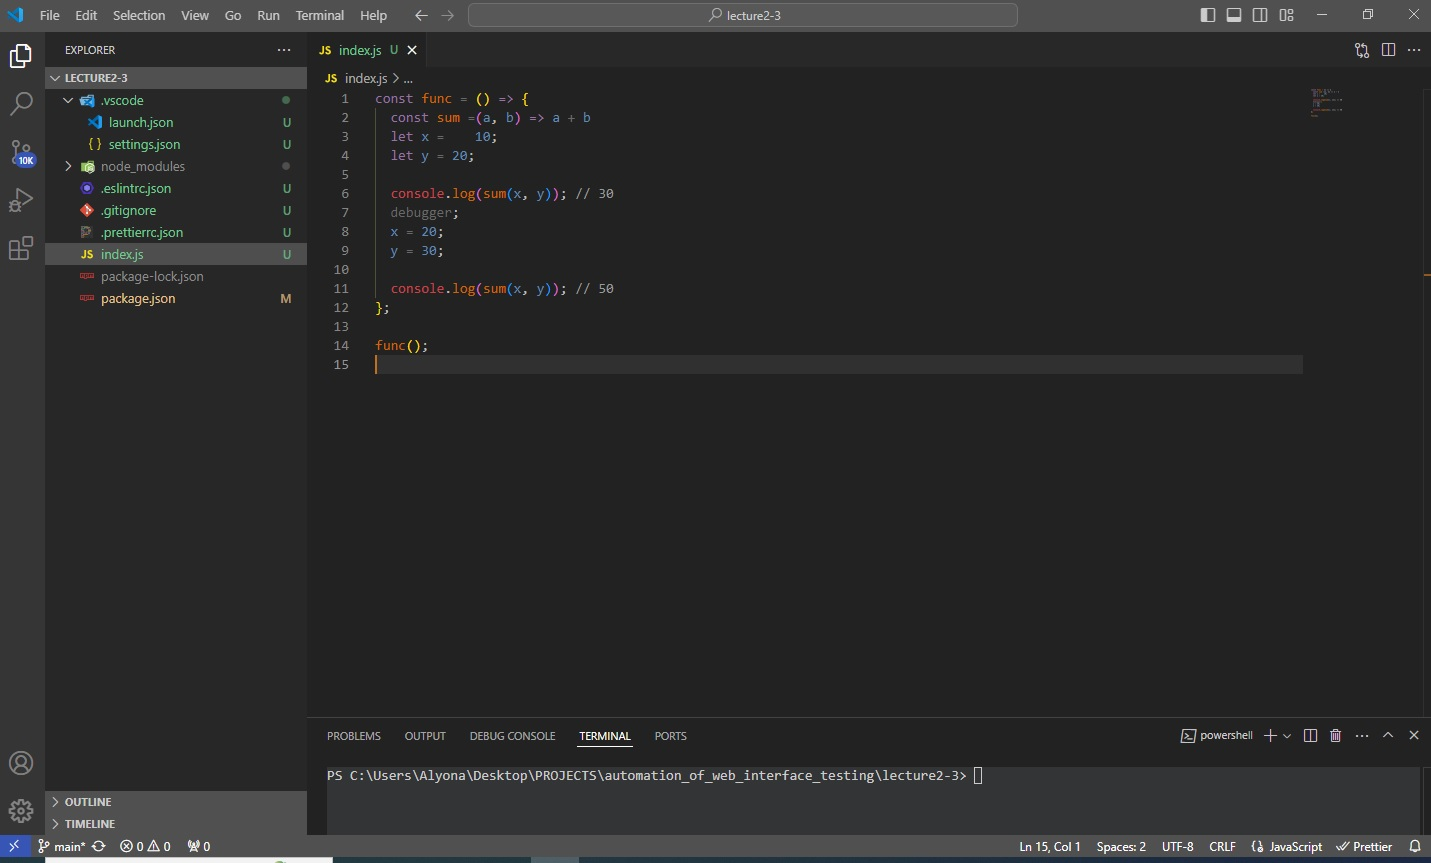
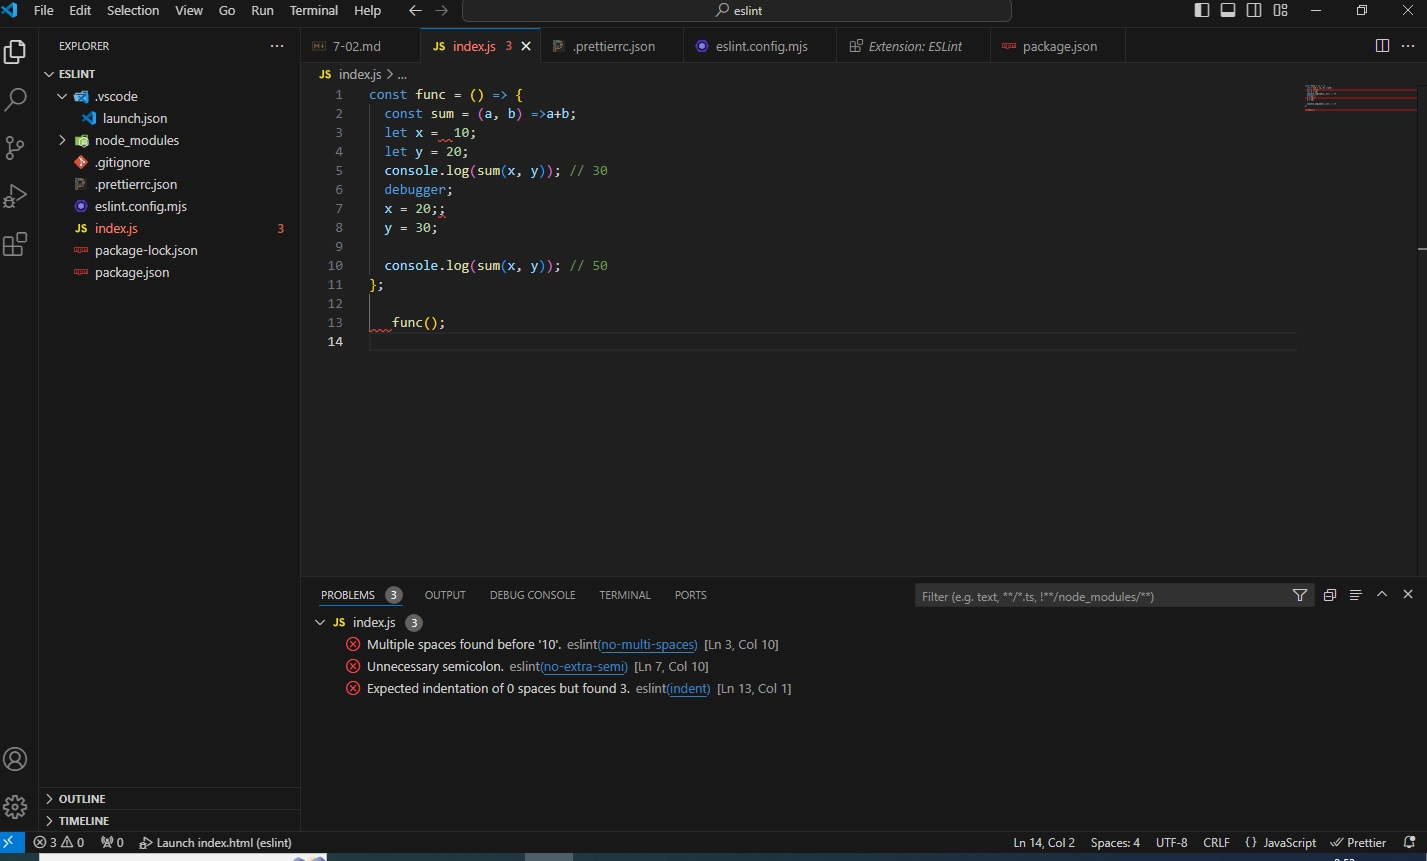
Syntax errors are detected

diff --git a/index.js b/index.js
@@ -1,8 +1,7 @@
 const func = () => {
-  const sum =(a, b) => a + b
-  let x =   10;
+  const sum = (a, b) => a + b;
+  let x = 10;
   let y = 20;
-
   console.log(sum(x, y)); // 30
   debugger;
   x = 20;
